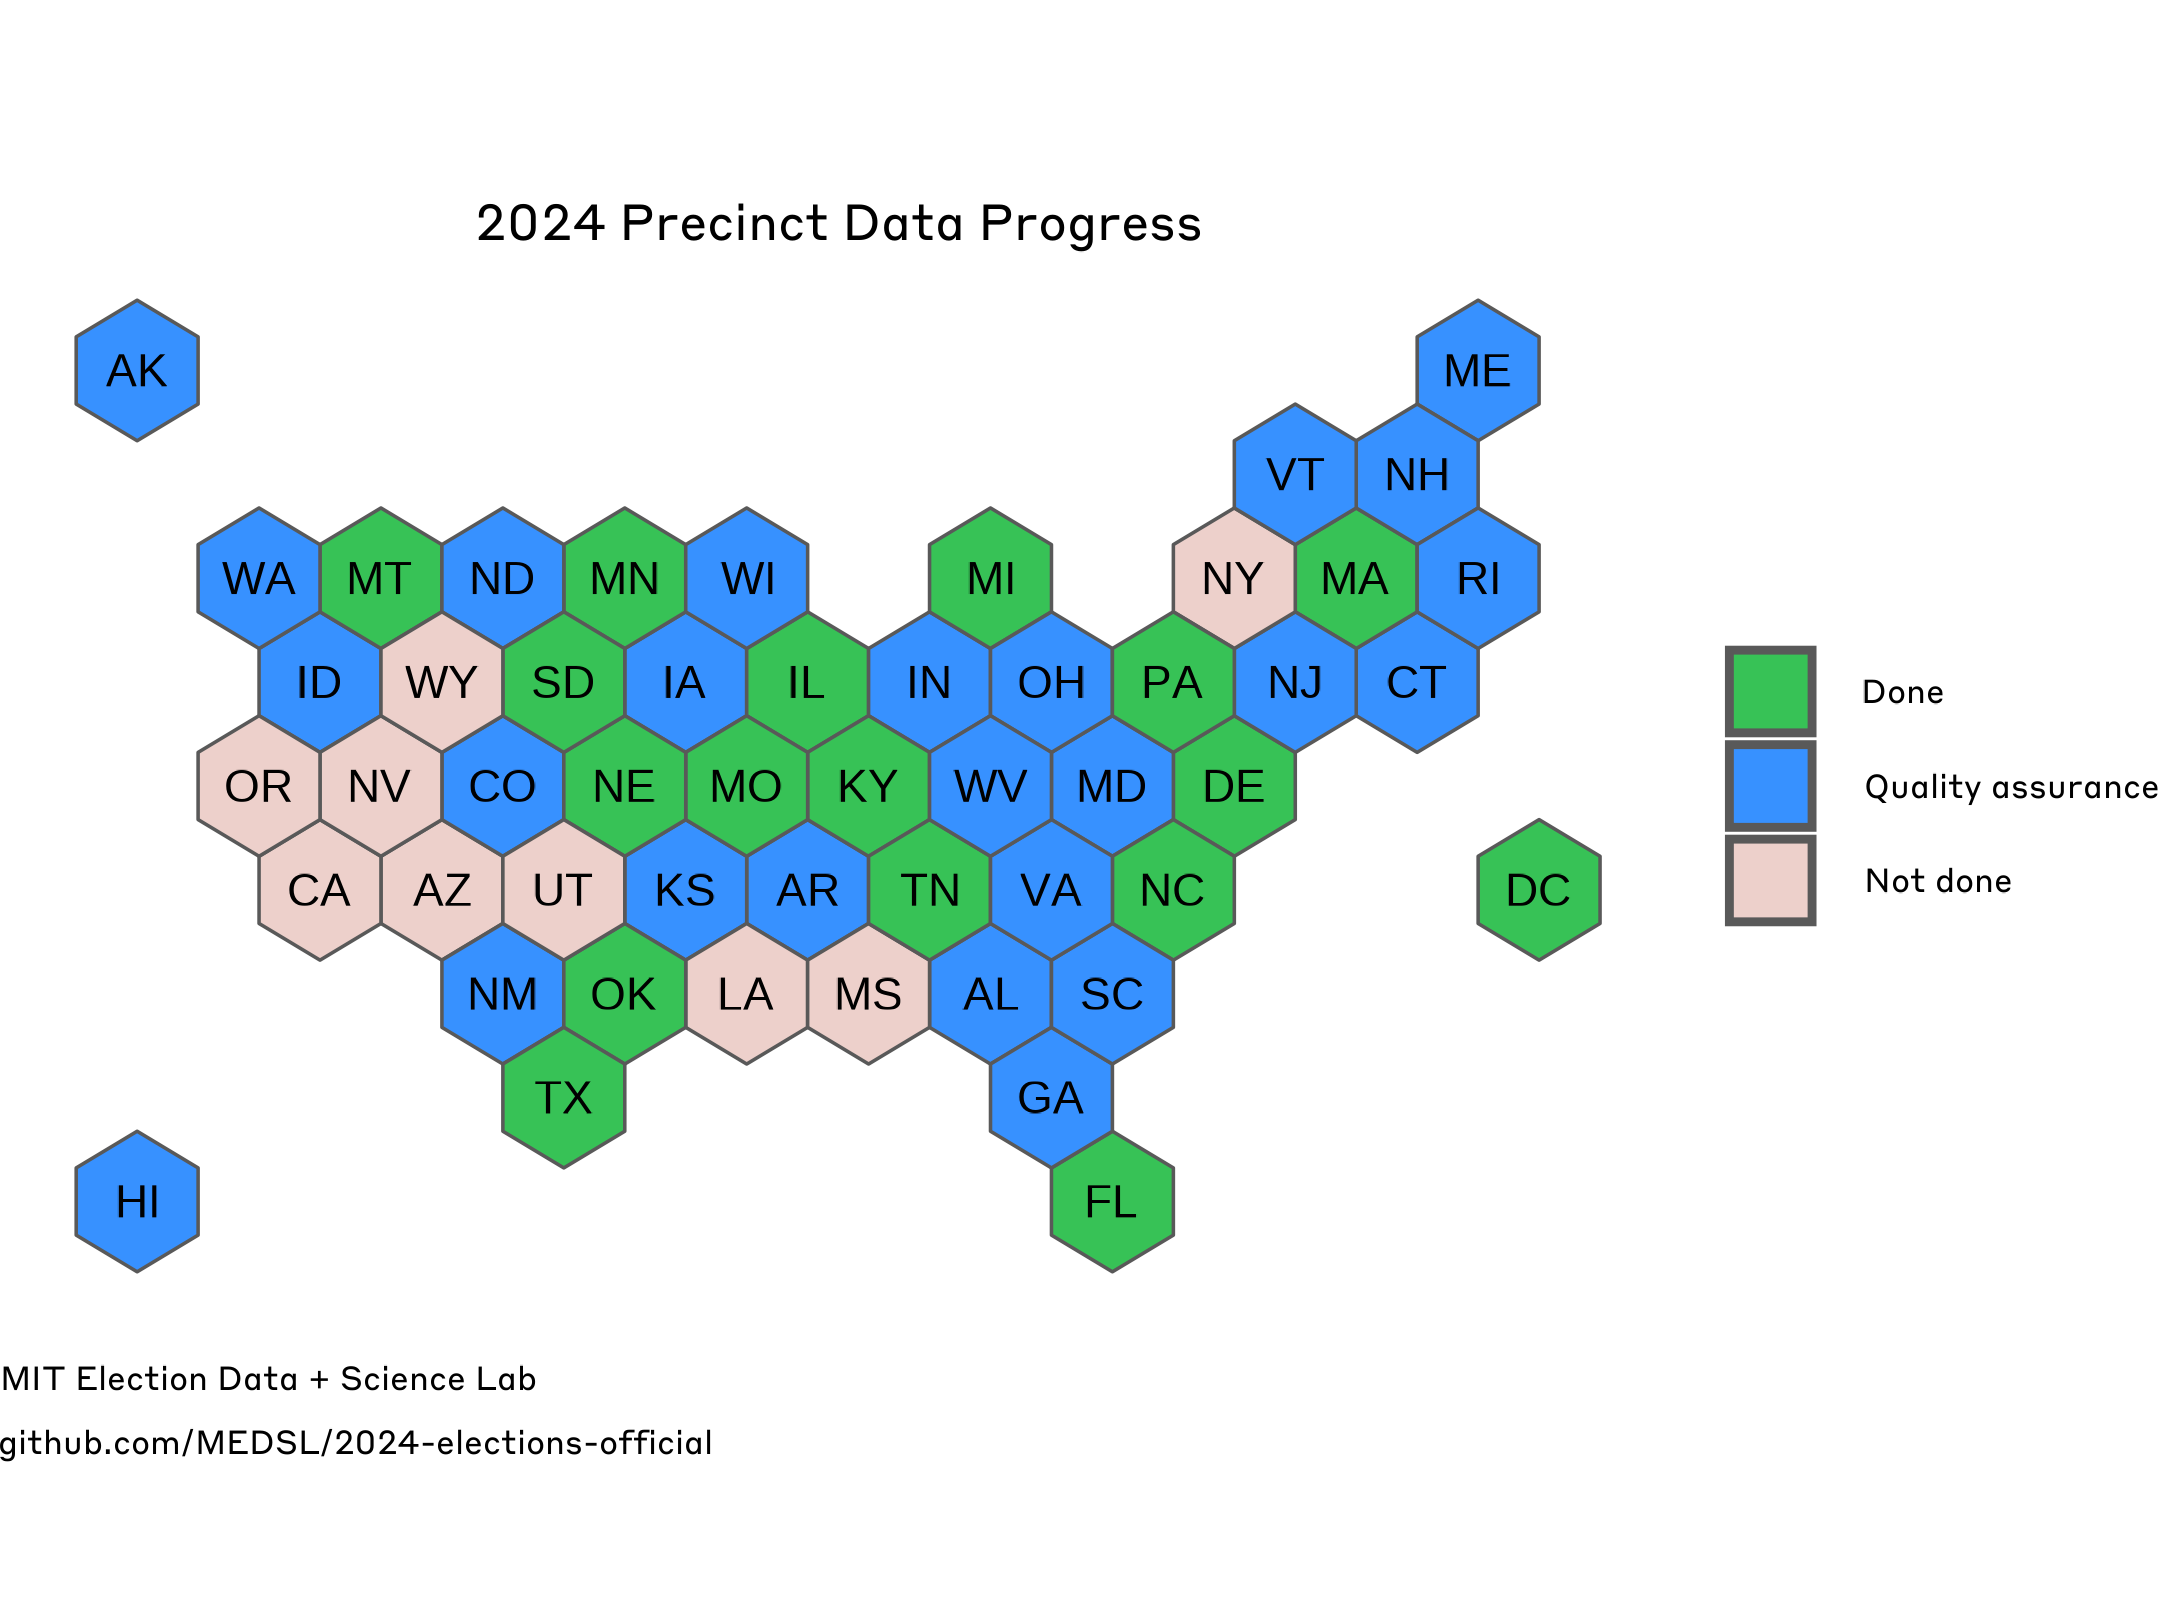
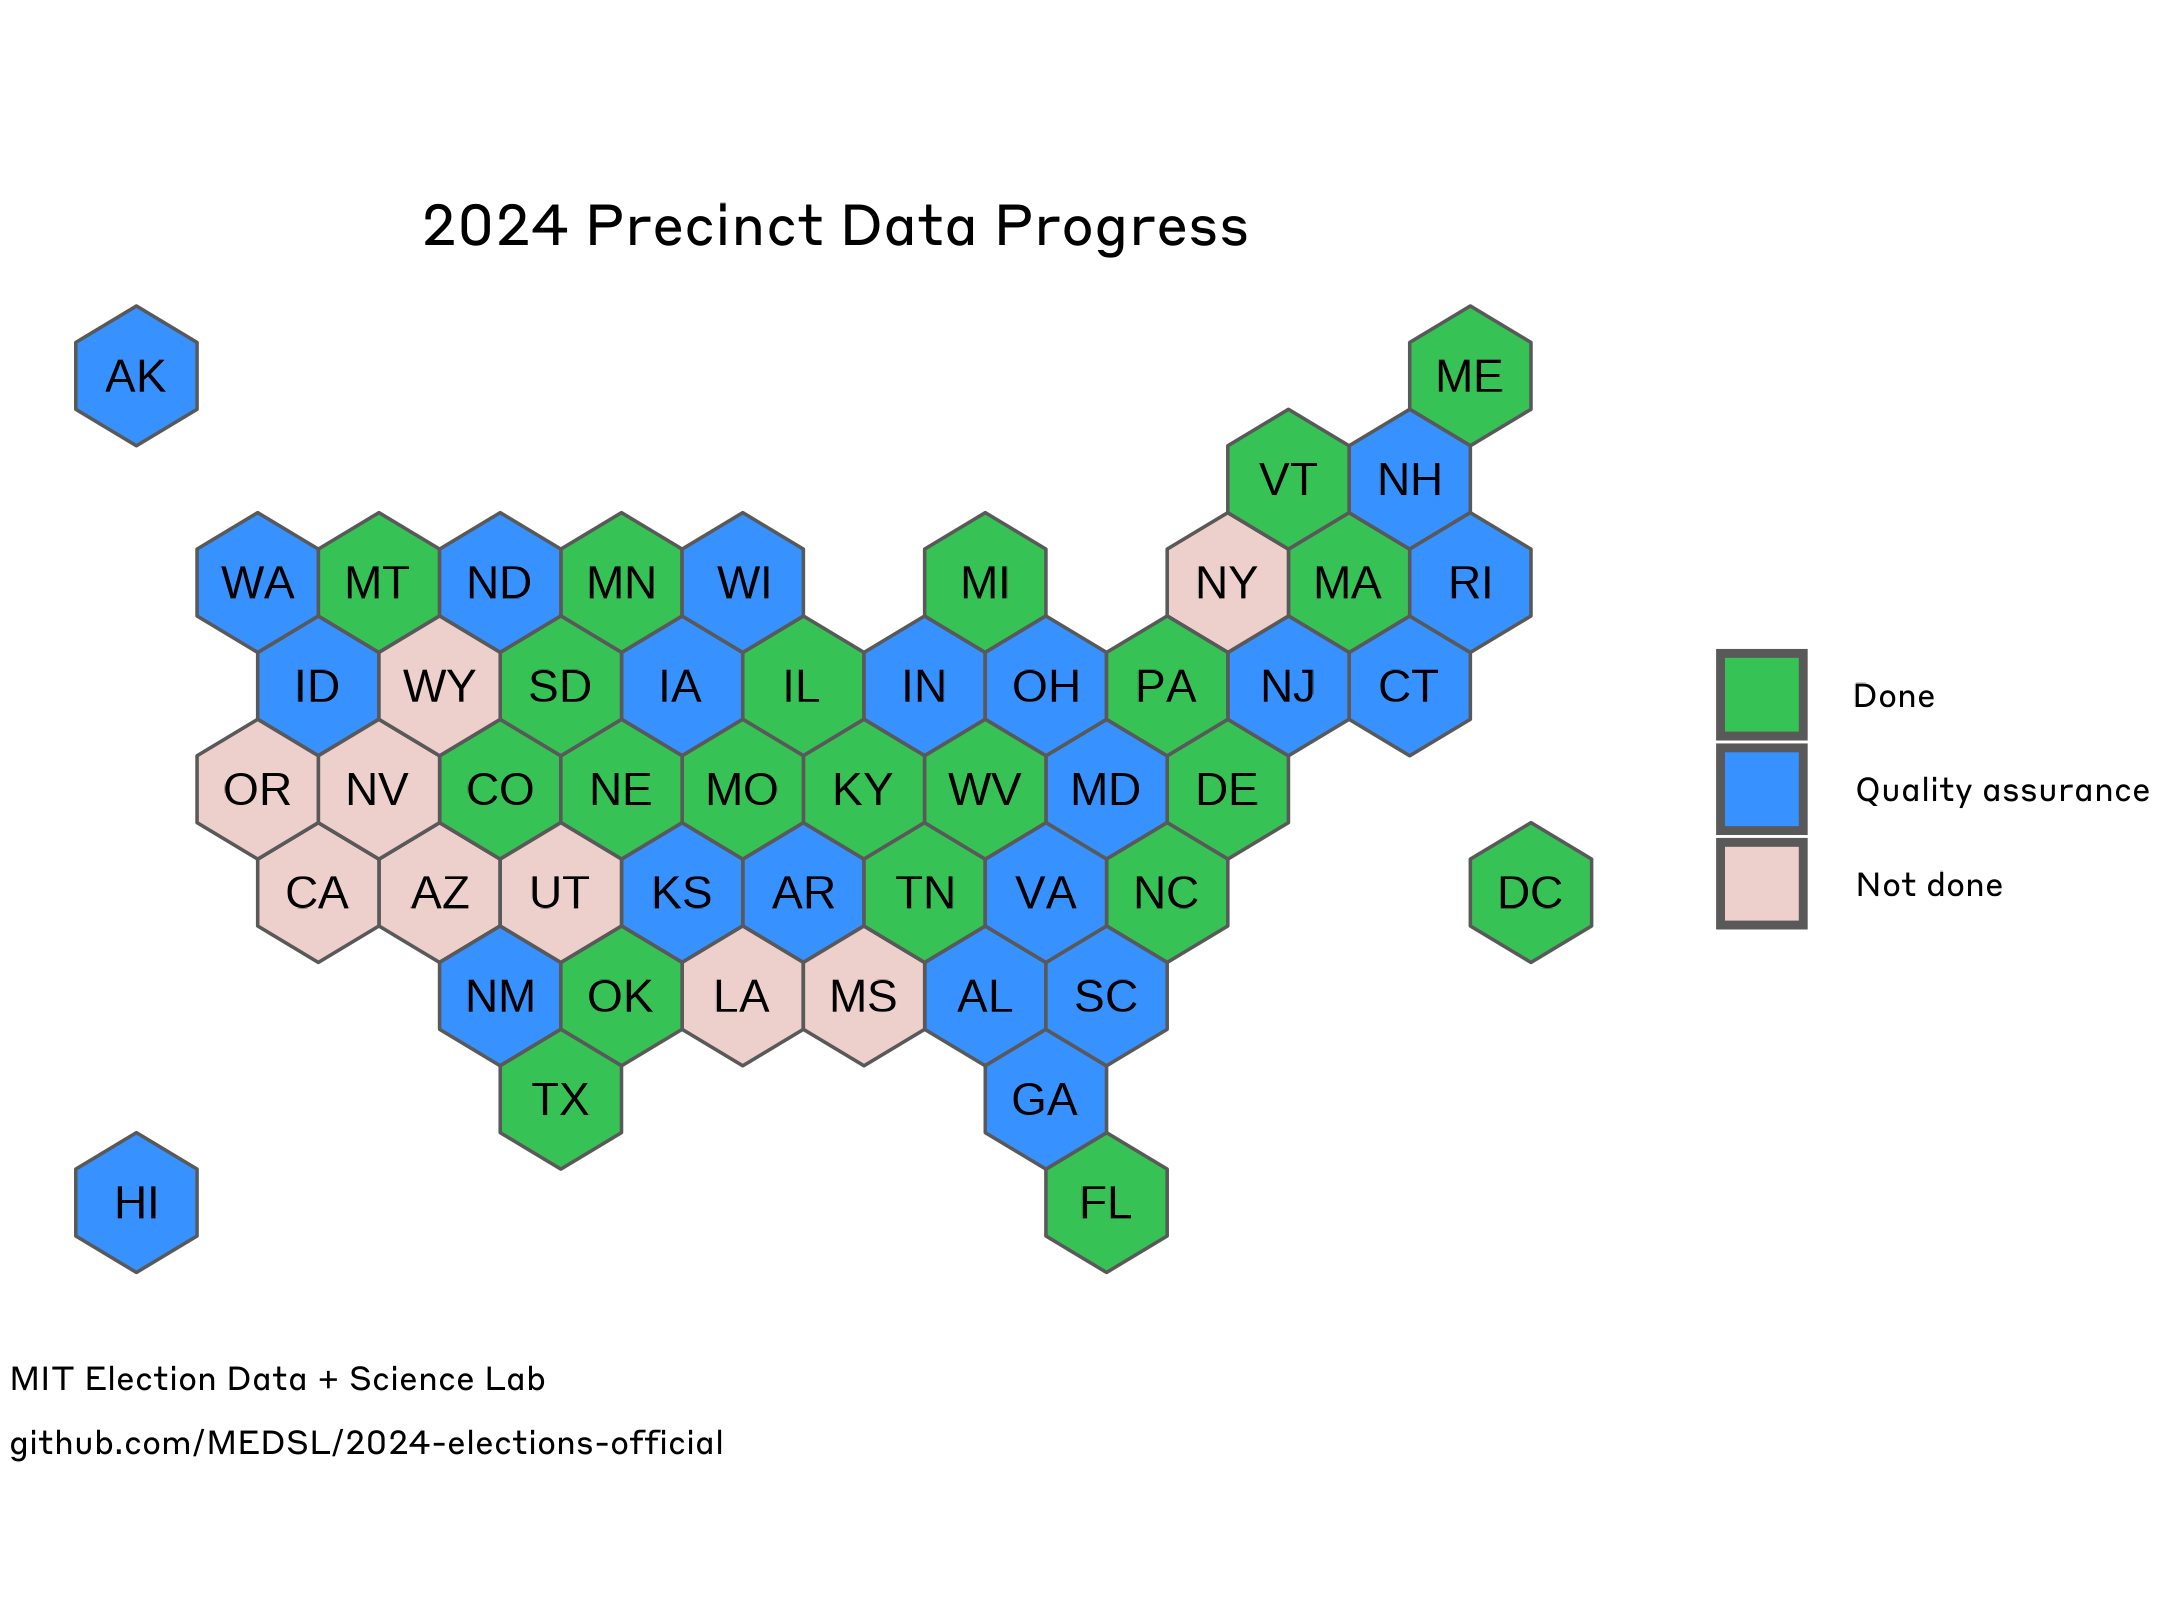
Added CO, ME, VT, and WV

diff --git a/README.md b/README.md
@@ -38,8 +38,8 @@ For any questions about how we clean and Quality Assure these data, and how accu
 *[Source]()*  
 
 ### Colorado
-*Added:*  
-*[Source]()*  
+*Added:* 2025-10-24
+*[Source](https://www.sos.state.co.us/pubs/elections/resultsData.html)*  
 
 ### Connecticut
 *Added:*  
@@ -100,8 +100,10 @@ For any questions about how we clean and Quality Assure these data, and how accu
 *[Source]()*  
 
 ### Maine
-*Added:*  
-*[Source]()*  
+*Added:* 2025-10-27
+*[Source](https://www.maine.gov/sos/cec/elec/results/results24.html)*  
+
+**Notes:** For some observations `jurisdiction_fips` was unable to be determined.
 
 ### Maryland
 *Added:*  
@@ -207,8 +209,8 @@ For any questions about how we clean and Quality Assure these data, and how accu
 *[Source]()*  
 
 ### Vermont
-*Added:*  
-*[Source]()*  
+*Added:* 2025-10-24 
+*[Source](https://electionarchive.vermont.gov/elections/search/date:2024-11-05)*  
 
 ### Virginia
 *Added:* 2025-07-26  
@@ -219,8 +221,8 @@ For any questions about how we clean and Quality Assure these data, and how accu
 *[Source]()*  
 
 ### West Virginia
-*Added:*  
-*[Source]()*  
+*Added:* 2025-10-24
+*[Source](https://results.enr.clarityelections.com/WV/122766/web.345435/#/summary)*  
 
 ### Wisconsin
 *Added:*  
